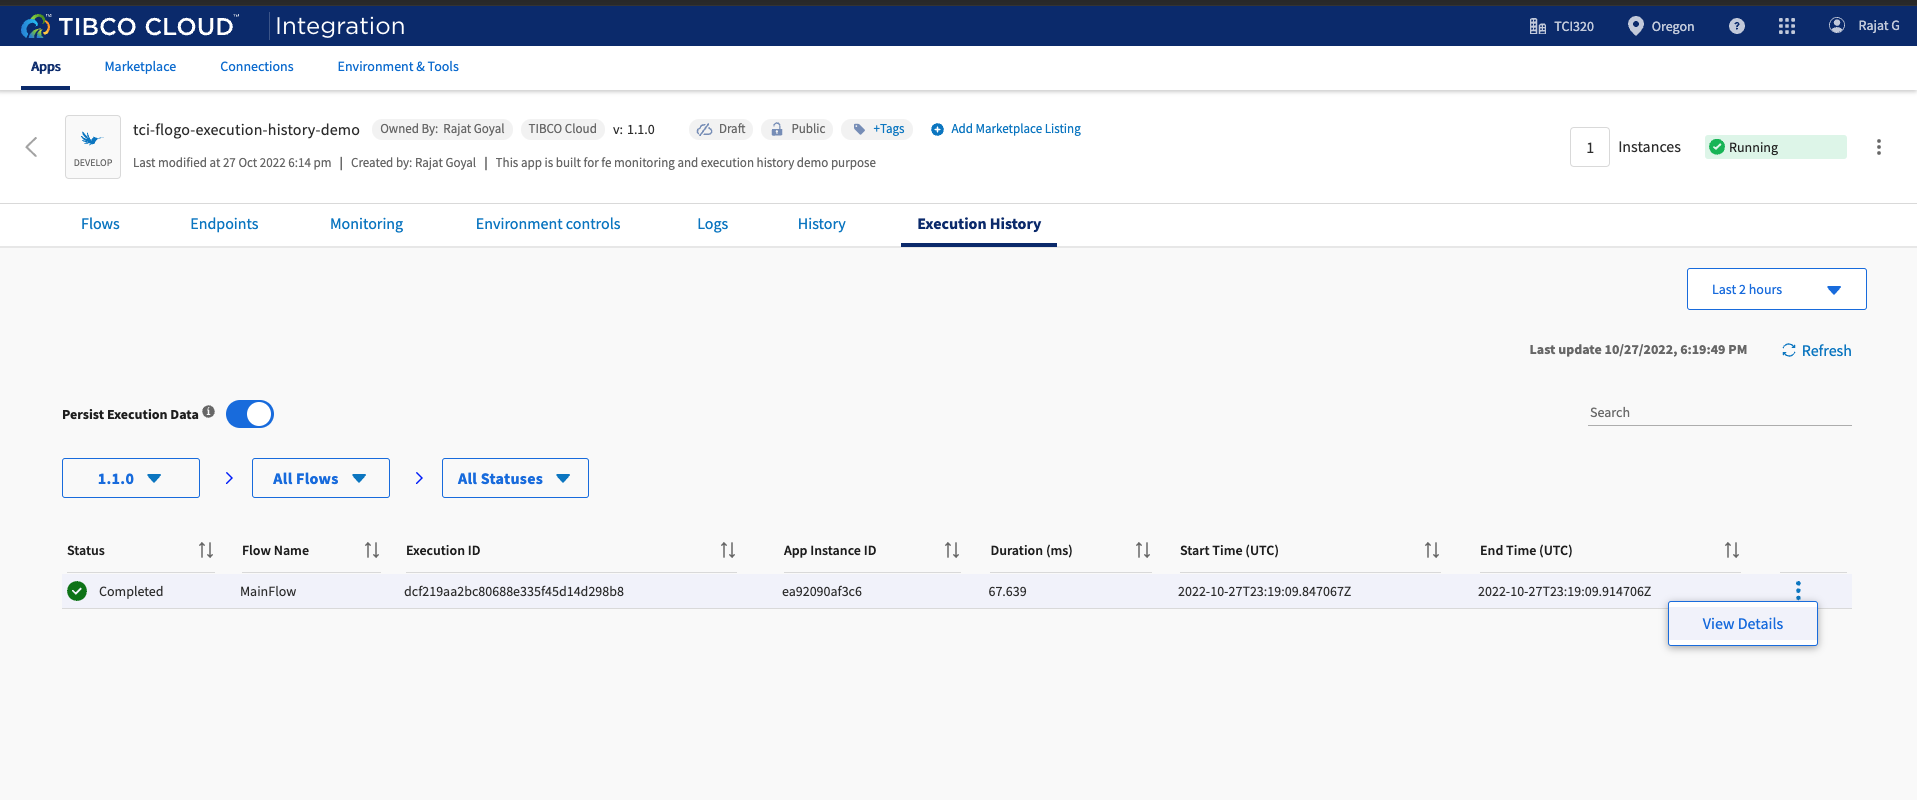
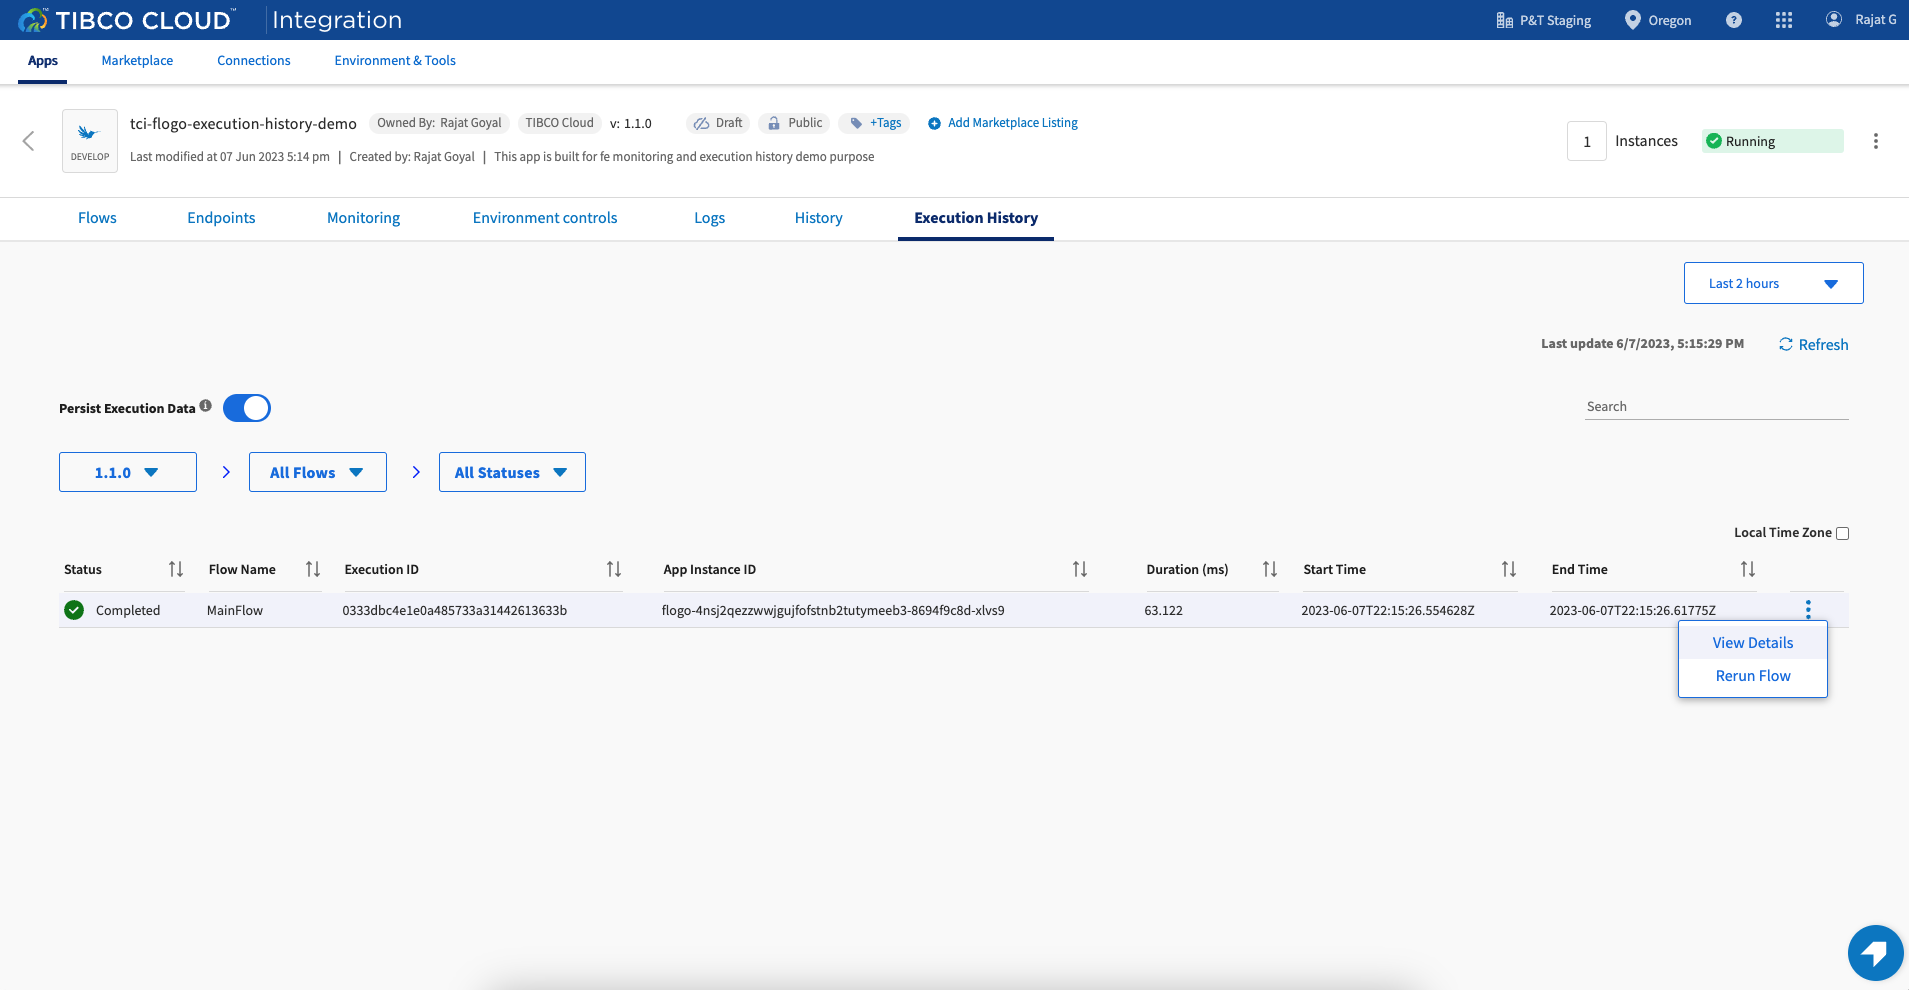
updated TCI Flogo Execution history Screenshots

diff --git a/samples/app-dev/Monitoring-and-Execution-History/TCI-Flogo-Execution-History/readme.md b/samples/app-dev/Monitoring-and-Execution-History/TCI-Flogo-Execution-History/readme.md
@@ -81,6 +81,17 @@ This is TCI-Flogo Execution History Sample.Execution History is used to capture 
 ![activity list](../../import-screenshots/tci-execution-history/10-input-output.png)
 
 
+## Re-Run The Flow Instance
+
+For a failed instance, you have an option to re-run it from the execution history. to re-run a flow instance,
+
+1. Click on the three dots beside an execution record and click on, re-run option. All the activities in that particular execution instance will be re-run and the same can be verified from the app logs and monitoring data. 
+
+![re-run](../../import-screenshots/tci-execution-history/11-rerun.png)
+
+
+
+
 ## Troubleshooting
 
 * If you do not see the Endpoint enabled, make sure your apps is in Running status.
